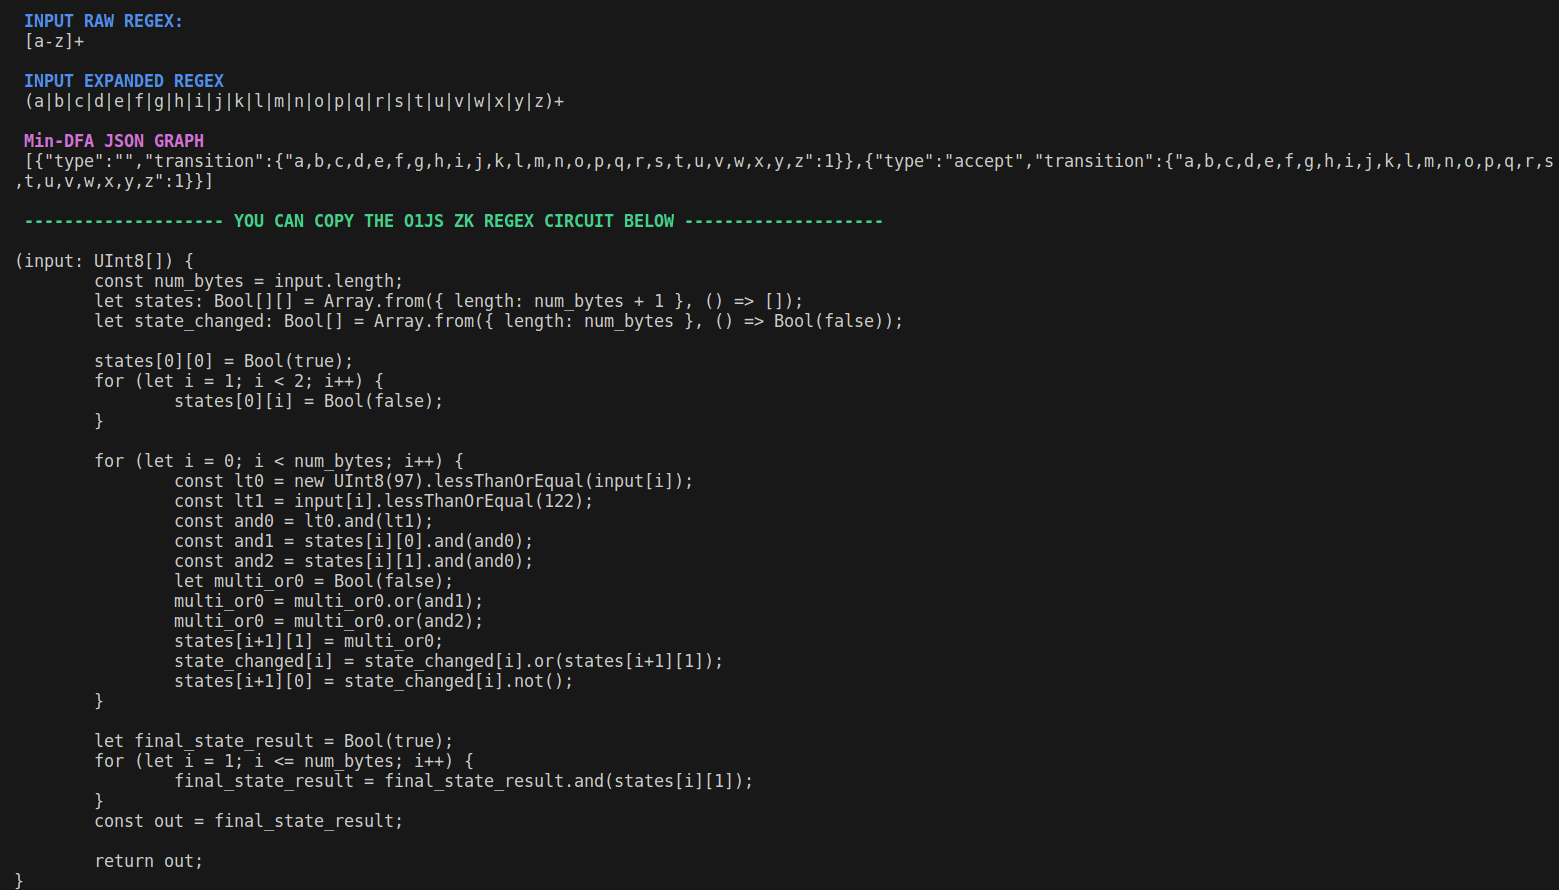
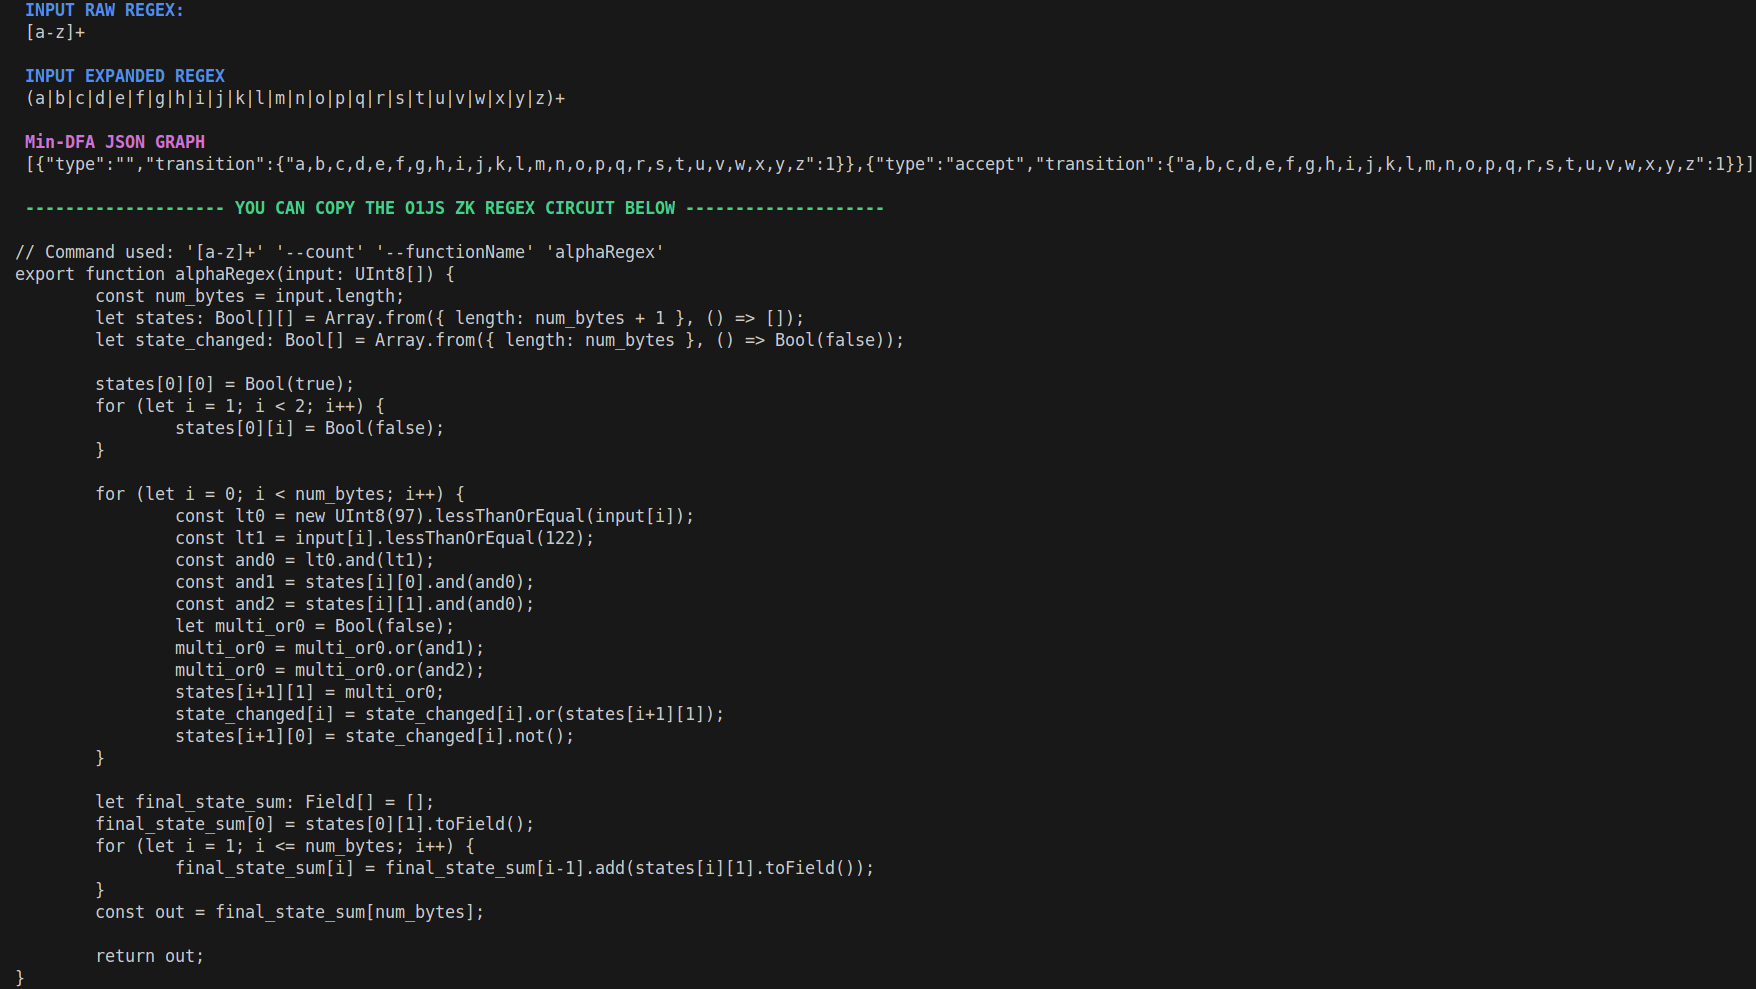
Update README

Changed region(s): [[0.0, 0.0, 1.0, 0.4551], [0.0616, 0.4854, 0.4926, 0.9708]]

diff --git a/README.md b/README.md
@@ -10,15 +10,72 @@ The innovation was originally developed for [zk-email-verify](https://github.com
 
 By leveraging ZK Regex, developers can securely verify the presence of specific text patterns without compromising data privacy, opening the door to a wide range of use cases such as secure messaging, confidential document validation, and more.
 
-## How to use
+## How to install the CLI
 
-1. Start by providing a raw or parsed (expanded) regex pattern, then execute the following command:
+```sh
+npm install -g o1js-regex-cli
+```
+
+## How to confirm successful installation:
+
+```sh
+zk-regex --version
+```
+
+or
+
+```sh
+zkr --version
+```
+
+### How to update the ZK Regex CLI
+
+```sh
+npm update -g o1js-regex-cli
+```
+
+## How to display help
+
+```sh
+zk-regex --help
+```
+
+![alt text](./images/cli-help.png)
+
+## How to use CLI to write or append o1js regex circuits directly into a TS File
+
+Start by providing a raw regex pattern and specifying the `--filePath` option:
+
+```sh
+zk-regex <regexPattern> [options] --filePath <path> --functionName <name>
+```
+
+- **Note:** When using the `--filePath` option, you must also provide the `--functionName` option. This ensures that the compiled regex circuit is given a specific function name within the TypeScript file.
+
+### File Handling:
+
+- If the _file_ specified by `--filePath` does not exist:
+  - The CLI will create the file.
+  - An import statement for the required types (`Bool`, `Field`, `UInt8` from `o1js`) will be added at the top of the file.
+  - The compiled regex circuit will be written to the file.
+- If the file specified by --filePath exists:
+  - The compiled regex circuit will be appended to the existing file.
+
+### Example Command:
+
+```sh
+zk-regex '(a|b)c' --functionName myRegexFunction --filePath ./src/regexCircuits.ts
+```
+
+This command will append the compiled regex circuit for the pattern `(a|b)c `to `./src/regexCircuits.ts` with the function name `myRegexFunction`.
+
+## How to use manually
+
+1. Provide a raw or parsed (expanded) regex pattern along with the desired options as described in the CLI documentation, then execute the following command:
 
    ```sh
-   npm run zk-regex '<regexPattern>'
+    zk-regex <regexPattern> [options]
    ```
-
-   **NOTE:** `countEnabled` and `substringEnabled` arguments are set to **false** by default.
 
 2. In your TypeScript file, import the necessary modules at the top:
 
@@ -42,34 +99,58 @@ Below is a screenshot depicting how a ZK Regex circuit in `o1js` appears upon su
 
 ## Compiler Options
 
-### Arguments
+1.  `--count`: A boolean option that is set to **false** by default.
 
-1. `countEnabled`: A boolean argument that is set to **false** by default.
+    - If `--count` is not used, the compiled circuit will have a **Bool** output, signifying whether the input matches the regex pattern.
 
-   - If `countEnabled` is **false**, the compiled circuit will have a **Bool** output, signifying whether the input matches the regex pattern.
+      - Example: For a regex `Hello [a-z]+!`, the input `Hello world!` will return `Bool(true)`, whereas the input `Hello there` will return `Bool(false)` because the exclamation mark `!` is missing at the end of the input.
 
-     - Example: For a regex `Hello [a-z]+!`, the input `Hello world!` will return `Bool(true)`, whereas the input `Hello there` will return `Bool(false)` because the exclamation mark `!` is missing at the end of the input.
+    - If `--count` is used, the compiled circuit will return a **Field** output, signifying the number of matching patterns according to the regex.
+      - Example: For a regex `[0-9]+`, the input `I saw 279 ants and 1 elephant` will return `Field(4)` because it contains 4 numbers. Whereas an input like `Cheese` will return `Field(0)` because there are no digits in the input, which can also invalidate the input like `Bool(false)`.
 
-   - If `countEnabled` is **true**, the compiled circuit will return a **Field** output, signifying the number of matching patterns according to the regex.
-     - Example: For a regex `([0-9])+`, the input `I saw 279 ants and 1 elephant` will return `Field(4)` because it contains 4 numbers. Whereas an input like `Cheese` will return `Field(0)` because there are no digits in the input, which can also invalidate the input like `Bool(false)`.
+2.  For a defined regex, there are two alternative variadic options to reveal its substring patterns: `--revealTransitions` and `--revealSubpatterns`.
 
-2. `substringEnabled`: A boolean argument that is set to **false** by default.
+    - **Warning** Only one of these options can be used at a time. Using both will result in an error, as they are mutually exclusive choices for revealing patterns.
 
-   - If `substringEnabled` is **false**, the compiled circuit will only return `Field` or `Bool` output based on `countEnabled` arguments. In other words, the regex circuit will solely validate given an input.
+    - If neither reveal option is used, the compiled circuit will return either `Field` or `Bool` output based on the `--count` option. This means the regex circuit will only validate the input without revealing any sub-patterns.
 
-   - If `substringEnabled` is **true**, the compiled circuit will reveal parts of the input following regex sub-pattern(s) or directly following the given min-DFA transitions.
+    - If one of the reveal options is used, the compiled circuit will reveal parts of the input based on the specified regex sub-pattern(s) or the provided min-DFA transitions.
 
-     - **Sub-patterns**:
+    - **Notes:**
 
-       - Sub-patterns are parts of the regex input that get parsed, extracting the respective transitions to be revealed.
-       - **NOTE:** The compiler will complain if a part regex is not included in the entire regex.
-       - **Example:** `npm run zk-regex '(black|white)+' '["black"]'` black is included in the entire regex `(black|white)+` but it will throw an error if a part regex is not included or of the wrong type such as `["yellow"]` or `black`.
-       - Following the color example, it is also possible to separate part regex for better flexibility such as giving `["black", "white"]` as opposed to `["(black|white)"]` that reveals everything attached.
+      - The reveal substring feature is particularly useful for occurrence matching with the `+` (one or more) operator. This feature allows for meaningful use cases in various circuits by fetching the matching values. For instance, it can be used to match and reveal a series of base64 characters or to extract an abstract number from a match like `[0-9]+`.
+      - While matching specific patterns such as `white` or `Human` might seem less practical, these examples are provided to illustrate how to effectively use the reveal options.
 
-     - **Transitions**:
-       - Transitions are the raw inputs behind revealing substring for an input.
-       - **Warning:** Opposed to sub-patterns, the compiler won't complain if you give it any transition array, it will only complain if the type of the transitions is different than `[number, number][][]`.
-       - Transitions are more straightforward if you know what you are doing following the DFA visualization; otherwise, use sub-patterns.
+    - **Sub-patterns:** `--revealSubpatterns` or `-s`
+
+      - Sub-patterns refer to specific parts of the regex input that are parsed to extract and reveal their respective transitions.
+
+      - **Warning:** The compiler will throw an error if a sub-pattern is not included in the entire regex or if the specified sub-pattern does not match the correct type.
+
+      - **Example:** For the command `zk-regex '(Human|Robot)+' --revealSubpatterns Human`, `Human` is a valid sub-pattern within the regex `(Human|Robot)+`. However, the compiler will raise an error if the sub-pattern specified is not present in the main regex or if it does not match, such as using `Humanoid` or `human` instead of `Human`.
+
+      - Additionally, sub-patterns can be specified separately for more flexibility. For example, using `zk-regex '(Human|Robot)+' --revealSubpatterns Human Robot` allows you to reveal specific sub-patterns, as opposed to revealing everything attached with `zk-regex '(Human|Robot)' --revealSubpatterns '(Human|Robot)'`.
+
+      - When using the `--revealSubpatterns` option, the output of the circuit includes a key to respect the scattering of revealed sub-patterns.
+
+      - In practice, if you reveal a single sub-pattern, you can access it with `reveal[0]` within the zkApp when using the regex circuit.
+
+    - **Transitions:** `--revealTransitions` or `-t`
+
+      - Transitions represent the underlying raw inputs used to reveal substrings in a regex match.
+
+      - The `--revealTransitions` option in the CLI allows you to specify a variadic list of transition pairs in a special format.
+
+        - **Example Command:** `zk-regex [a-z]+ --revealTransitions [0,1],[1,1]`
+
+      - **Warning:**
+
+        - The compiler will issue a warning if you provide a transition array that contains pairs not included in the full regex transition.
+        - The warning will occur if the format of the transitions does not match `[number, number],[number, number],...`.
+
+      - For greater flexibility, similar to subpatterns, you can specify multiple series of transition pairs, such as `[0,1],[1,1] [2,3],[3,4]`.
+
+      - Working with transitions can be more straightforward if you understand the DFA (Deterministic Finite Automaton) visualization. Otherwise, it is recommended to use sub-patterns for ease of use.
 
 ### Enabling Substring Walkthrough
 
@@ -80,17 +161,17 @@ Below is a screenshot depicting how a ZK Regex circuit in `o1js` appears upon su
 
 - In this example, we want to reveal the dynamic substring knowing that it's abstract given the repetition pattern.
 
-- Entering the **sub-pattern** is quite straightforward, and giving the input `'["[A-Z][a-z]+"]'` solves the issue easily.
+- Entering the **sub-pattern** is quite straightforward, and giving the input `[A-Z][a-z]+` solves the issue easily.
 
-  - Command: `npm run zk-regex 'name: [A-Z][a-z]+' '["[A-Z][a-z]+"]'`
+  - Command: `zk-regex 'name: [A-Z][a-z]+' -s [A-Z][a-z]+`
 
 - As with transitions, you should first use this amazing [min-DFA visualizer](https://zkregex.com/min_dfa?regex=bmFtZTogKEF8QnxDfER8RXxGfEd8SHxJfEp8S3xMfE18TnxPfFB8UXxSfFN8VHxVfFZ8V3xYfFl8WikoYXxifGN8ZHxlfGZ8Z3xofGl8anxrfGx8bXxufG98cHxxfHJ8c3x0fHV8dnx3fHh8eXx6KSs=)
   ![alt text](./images/min-dfa-example.png)
 
 - You can see in the graph above that the transitions containing the inputs `[A-Z]` and `[a-z]+` are `8 to 1`, `1 to 2`, and `2 to 2`.
-  - Hence the transitions input `[[[8,1],[1,2],[2,2]]]` also reveals the name starting with a capital letter.
-  - Command: `npm run zk-regex 'name: [A-Z][a-z]+' '[[[8,1],[1,2],[2,2]]]'`
-  - **NOTE:** Separation is also possible by reorganizing the transitions sub-array, such as `[[[8,1]],[[1,2],[2,2]]]`, which reveals the first capital letter and the rest lowercase letters separately.
+  - Hence the transitions input `[8,1],[1,2],[2,2]` also reveals the name starting with a capital letter.
+  - Command: `zk-regex 'name: [A-Z][a-z]+' -t [8,1],[1,2],[2,2]`
+  - **NOTE:** Separation is also possible by reorganizing the transitions sub-array, such as `[8,1] [1,2],[2,2]`, which reveals the first capital letter and the rest lowercase letters separately.
 
 ### Options Graph
 
